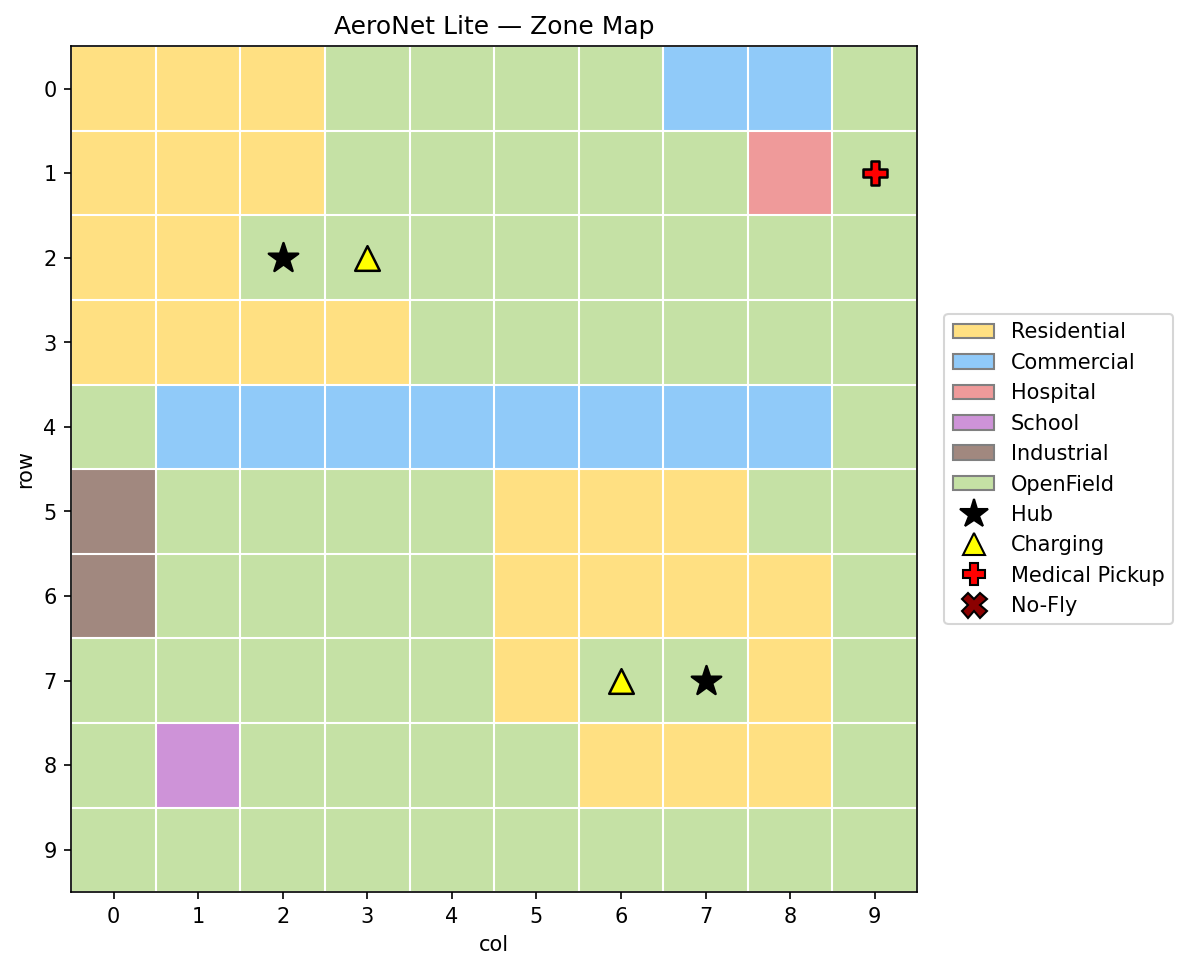
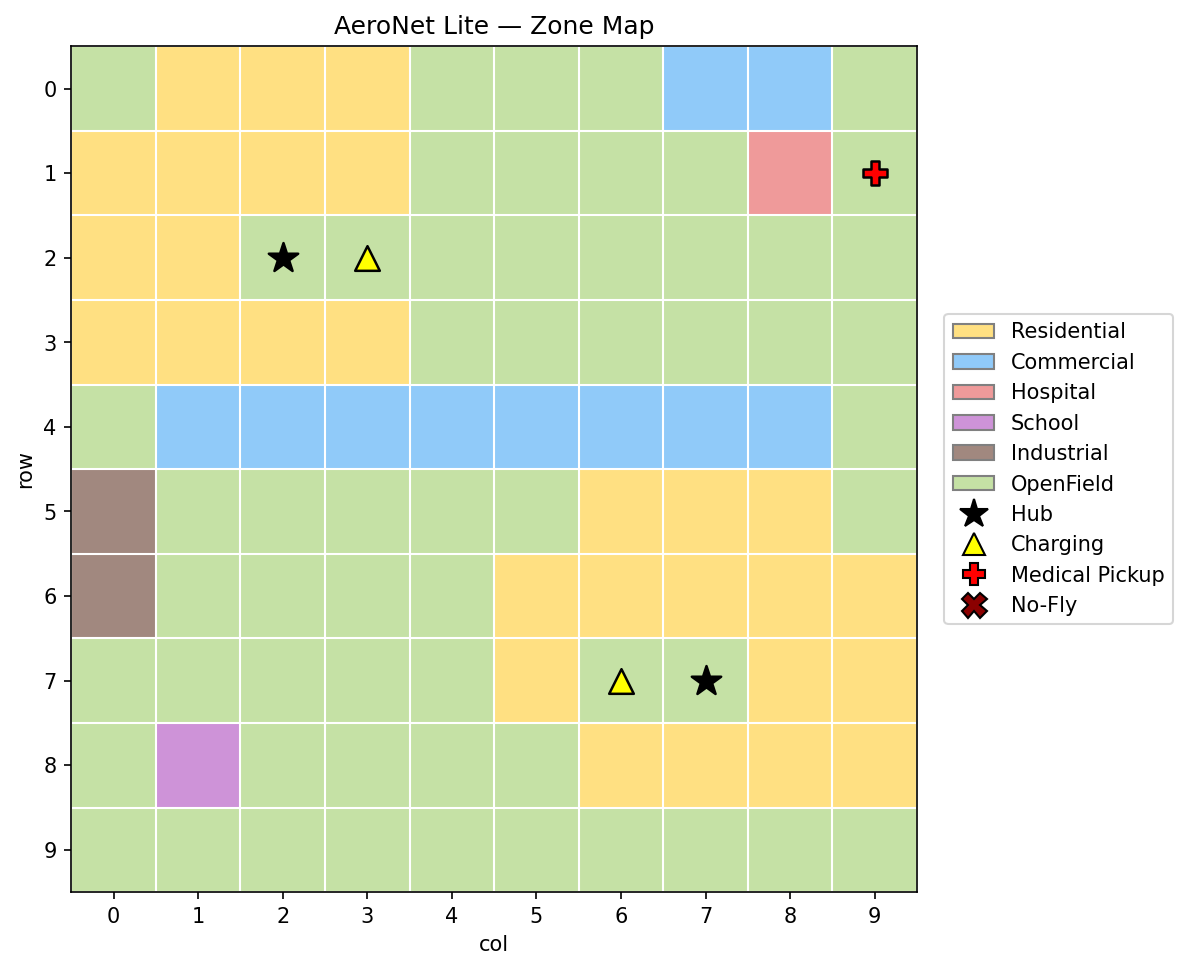
Day 1-2

diff --git a/aeronet_lite/src/layout_validator.py b/aeronet_lite/src/layout_validator.py
@@ -1,0 +1,191 @@
+"""CSP-style layout validator for AeroNet Lite (Module 1).
+
+Owner: Zaid. Day 3 ships R1 (industrial adjacency) and R2 (residential coverage).
+Day 4 will add R3 (hub charging proximity) and R4 (hospital medical pickup access).
+
+Each rule returns a list of Violation objects. Violations include a suggested fix
+so the report is useful during viva.
+"""
+
+from __future__ import annotations
+
+from dataclasses import dataclass, field
+from typing import Callable, List, Tuple
+
+from grid_model import (
+    Cell,
+    Coord,
+    GRID_SIZE,
+    get_neighbors,
+    hubs,
+    make_sample_grid,
+    manhattan,
+    print_grid,
+)
+
+
+@dataclass
+class Violation:
+    rule_id: str
+    cell: Coord
+    message: str
+    suggestion: str = ""
+
+
+@dataclass
+class ValidationReport:
+    rule_results: List[Tuple[str, bool, str]] = field(default_factory=list)
+    violations: List[Violation] = field(default_factory=list)
+
+    @property
+    def is_valid(self) -> bool:
+        return all(passed for _, passed, _ in self.rule_results)
+
+    def add_rule(self, rule_id: str, description: str, rule_violations: List[Violation]) -> None:
+        self.rule_results.append((rule_id, len(rule_violations) == 0, description))
+        self.violations.extend(rule_violations)
+
+    def print(self) -> None:
+        print("=" * 64)
+        print(f"AeroNet Lite — Layout Validation Report")
+        print("=" * 64)
+        print(f"Layout validity = {self.is_valid}\n")
+
+        print("Rule summary:")
+        for rule_id, passed, description in self.rule_results:
+            status = "PASS" if passed else "FAIL"
+            print(f"  [{status}] {rule_id}: {description}")
+
+        if self.violations:
+            print("\nViolations:")
+            for v in self.violations:
+                print(f"  - {v.rule_id} @ {v.cell}: {v.message}")
+                if v.suggestion:
+                    print(f"      -> Suggested fix: {v.suggestion}")
+        else:
+            print("\nNo violations found.")
+        print("=" * 64)
+
+
+# ---------- Rule R1: Industrial adjacency ---------------------------------- #
+
+R1_DESCRIPTION = "Industrial cells must not be directly adjacent to Schools or Hospitals."
+
+
+def check_industrial_safety(grid: List[List[Cell]]) -> List[Violation]:
+    violations: List[Violation] = []
+    n = len(grid)
+    for r in range(n):
+        for c in range(n):
+            if grid[r][c].zone != "Industrial":
+                continue
+            for (nr, nc) in get_neighbors(r, c, size=n):
+                neighbor = grid[nr][nc]
+                if neighbor.zone in ("School", "Hospital"):
+                    violations.append(
+                        Violation(
+                            rule_id="R1",
+                            cell=(r, c),
+                            message=(
+                                f"Industrial cell ({r}, {c}) is adjacent to "
+                                f"{neighbor.zone} at ({nr}, {nc})."
+                            ),
+                            suggestion=(
+                                f"Move the {neighbor.zone.lower()} away from "
+                                f"({nr}, {nc}) or convert ({r}, {c}) to Open Field."
+                            ),
+                        )
+                    )
+    return violations
+
+
+# ---------- Rule R2: Residential coverage by hubs -------------------------- #
+
+R2_DESCRIPTION = "Every Residential cell must be within 3 Manhattan cells of a Drone Hub."
+R2_MAX_DISTANCE = 3
+
+
+def check_residential_coverage(grid: List[List[Cell]]) -> List[Violation]:
+    violations: List[Violation] = []
+    hub_coords = [(h.row, h.col) for h in hubs(grid)]
+
+    if not hub_coords:
+        for row in grid:
+            for cell in row:
+                if cell.zone == "Residential":
+                    violations.append(
+                        Violation(
+                            rule_id="R2",
+                            cell=(cell.row, cell.col),
+                            message=f"Residential cell ({cell.row}, {cell.col}) "
+                                    f"has no hub on the grid at all.",
+                            suggestion="Place at least one Drone Hub within 3 cells.",
+                        )
+                    )
+        return violations
+
+    for row in grid:
+        for cell in row:
+            if cell.zone != "Residential":
+                continue
+            origin = (cell.row, cell.col)
+            distances = [manhattan(origin, h) for h in hub_coords]
+            nearest = min(distances)
+            if nearest > R2_MAX_DISTANCE:
+                nearest_hub = hub_coords[distances.index(nearest)]
+                violations.append(
+                    Violation(
+                        rule_id="R2",
+                        cell=origin,
+                        message=(
+                            f"Residential cell {origin} is {nearest} cells from the "
+                            f"nearest hub {nearest_hub} (limit is {R2_MAX_DISTANCE})."
+                        ),
+                        suggestion=(
+                            f"Add a hub near {origin} or convert this cell to Open Field."
+                        ),
+                    )
+                )
+    return violations
+
+
+# ---------- Aggregator ----------------------------------------------------- #
+
+# Rules implemented so far. Day 4 will append R3 and R4.
+REGISTERED_RULES: List[Tuple[str, str, Callable[[List[List[Cell]]], List[Violation]]]] = [
+    ("R1", R1_DESCRIPTION, check_industrial_safety),
+    ("R2", R2_DESCRIPTION, check_residential_coverage),
+]
+
+
+def validate_layout(grid: List[List[Cell]]) -> ValidationReport:
+    report = ValidationReport()
+    for rule_id, description, fn in REGISTERED_RULES:
+        report.add_rule(rule_id, description, fn(grid))
+    return report
+
+
+# ---------- Demo ----------------------------------------------------------- #
+
+def _demo_violation_grid() -> List[List[Cell]]:
+    """Sample grid with intentional R1 and R2 failures for the demo run."""
+    grid = make_sample_grid()
+    # Force an R1 violation: drop a School next to the industrial cell at (5, 0)
+    grid[5][1].zone = "School"
+    grid[5][1].density = 500
+    # Force an R2 violation: residential cell far from both hubs (2,2) and (7,7)
+    grid[9][9].zone = "Residential"
+    grid[9][9].density = 4500
+    return grid
+
+
+if __name__ == "__main__":
+    print("== Clean sample grid ==")
+    clean = make_sample_grid()
+    print_grid(clean)
+    validate_layout(clean).print()
+
+    print("\n== Grid with intentional violations ==")
+    bad = _demo_violation_grid()
+    print_grid(bad)
+    validate_layout(bad).print()

diff --git a/aeronet_lite/src/grid_model.py b/aeronet_lite/src/grid_model.py
@@ -105,16 +105,17 @@ def make_sample_grid() -> List[List[Cell]]:
         grid[4][c].density = 1500
         grid[4][c].cost = 0.8
 
-    # Residential cluster around hub (2,2) — within 3 cells (R2)
+    # Residential cluster around hub (2,2) — every cell within Manhattan 3 (R2)
     residential_cells = [
-        (0, 0), (0, 1), (0, 2),
-        (1, 0), (1, 1), (1, 2),
+        (0, 1), (0, 2), (0, 3),
+        (1, 0), (1, 1), (1, 2), (1, 3),
         (2, 0), (2, 1),
         (3, 0), (3, 1), (3, 2), (3, 3),
-        (5, 5), (5, 6), (5, 7),
-        (6, 5), (6, 6), (6, 7), (6, 8),
-        (7, 5), (7, 8),
-        (8, 6), (8, 7), (8, 8),
+        # Cluster around hub (7,7) — every cell within Manhattan 3
+        (5, 6), (5, 7), (5, 8),
+        (6, 5), (6, 6), (6, 7), (6, 8), (6, 9),
+        (7, 5), (7, 8), (7, 9),
+        (8, 6), (8, 7), (8, 8), (8, 9),
     ]
     for (r, c) in residential_cells:
         grid[r][c].zone = "Residential"
